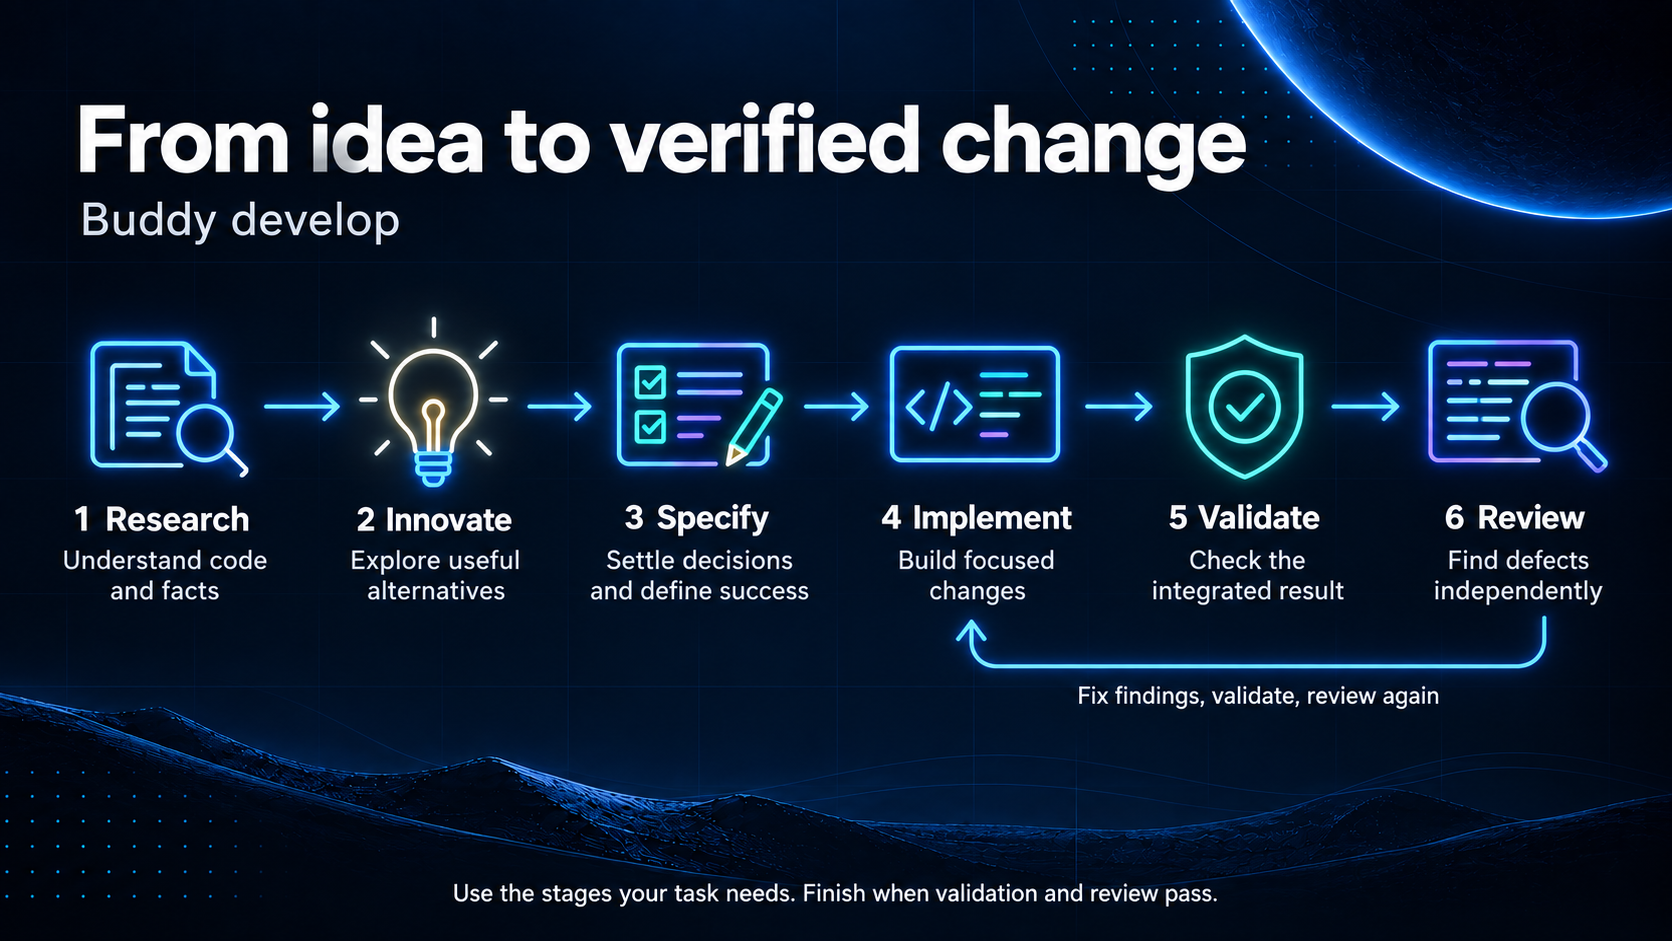
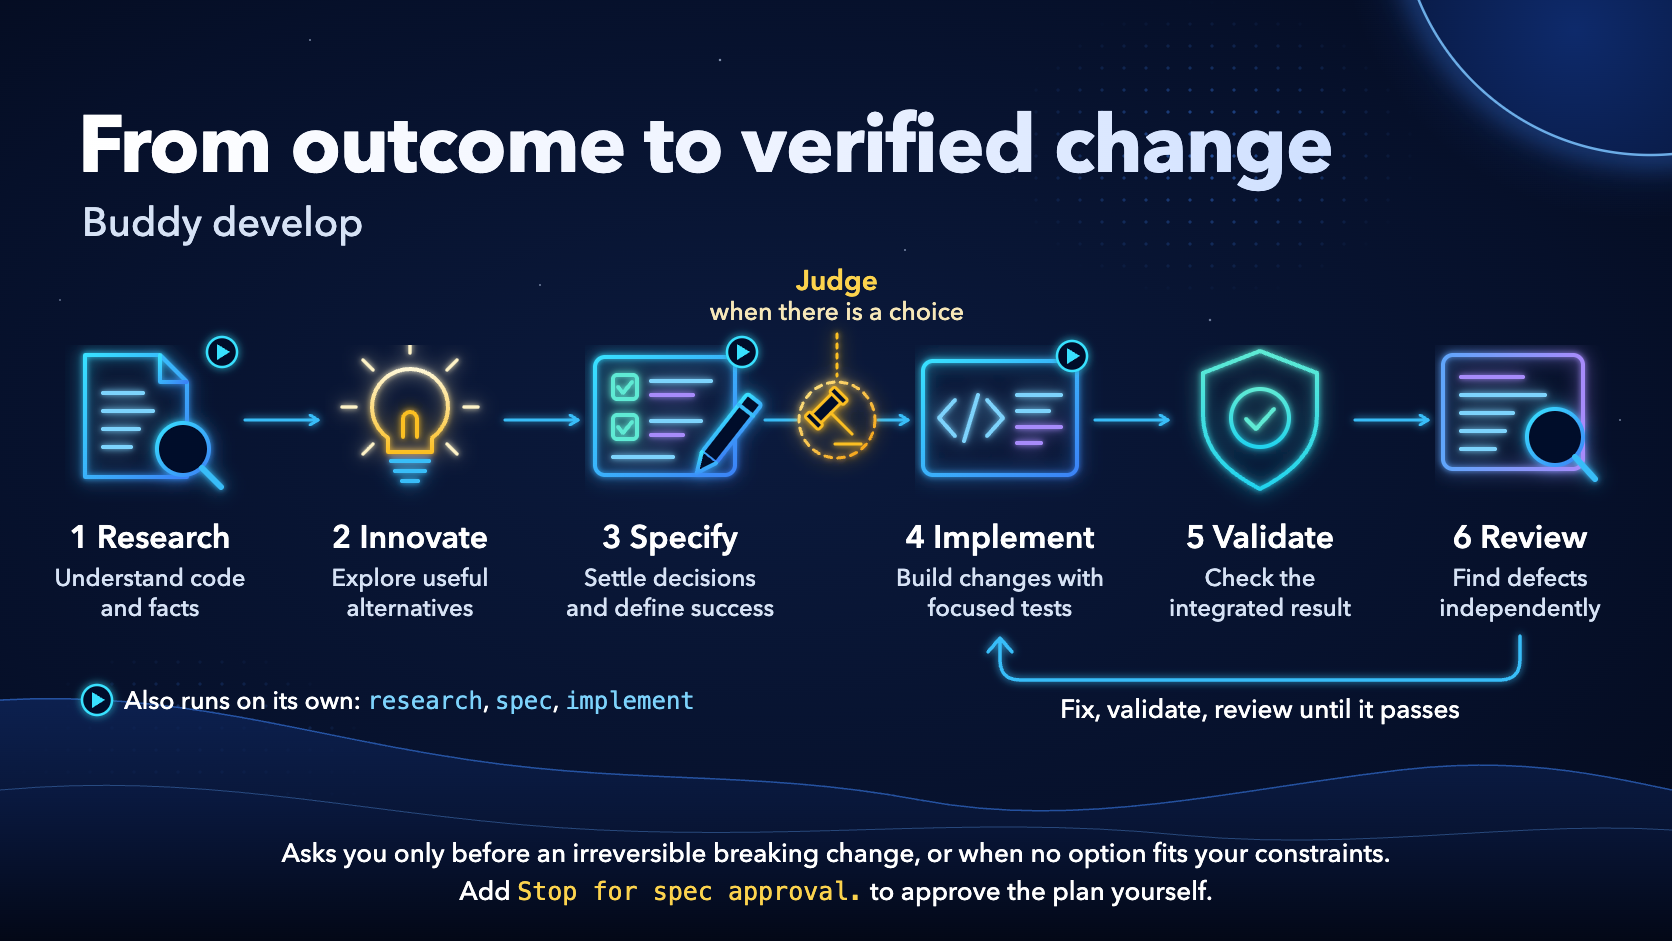
docs: update README hero image for the 3.0 develop flow
Add the judge gate, focused tests, the fix loop, standalone stages,
and who decides. Add an editable HTML source for the image.

diff --git a/assets/buddy-readme-hero.html b/assets/buddy-readme-hero.html
@@ -1,0 +1,295 @@
+<!doctype html>
+<!--
+  Source for buddy-readme-hero.png (1672x941).
+  Render from the repository root with headless Chrome, for example:
+  "Google Chrome" --headless=new --hide-scrollbars --window-size=1672,941 \
+    --screenshot=assets/buddy-readme-hero.png assets/buddy-readme-hero.html
+-->
+<html lang="en">
+<head>
+<meta charset="utf-8">
+<title>Buddy README hero</title>
+<style>
+  html, body { margin: 0; padding: 0; width: 1672px; height: 941px; overflow: hidden; background: #040a1c; }
+  svg { display: block; }
+  .title { font-family: "Avenir Next", "Avenir", "Helvetica Neue", Arial, sans-serif; font-weight: 700; }
+  .sans { font-family: "Avenir Next", "Avenir", "Helvetica Neue", Arial, sans-serif; font-weight: 500; }
+  .bold { font-family: "Avenir Next", "Avenir", "Helvetica Neue", Arial, sans-serif; font-weight: 600; }
+  .mono { font-family: "SF Mono", Menlo, Consolas, monospace; font-weight: 500; }
+</style>
+</head>
+<body>
+<svg width="1672" height="941" viewBox="0 0 1672 941" xmlns="http://www.w3.org/2000/svg">
+  <defs>
+    <radialGradient id="bg" cx="0.45" cy="0.45" r="0.85">
+      <stop offset="0" stop-color="#0b1a3d"/>
+      <stop offset="0.6" stop-color="#06102a"/>
+      <stop offset="1" stop-color="#030817"/>
+    </radialGradient>
+    <radialGradient id="planet" cx="0.35" cy="0.75" r="0.9">
+      <stop offset="0" stop-color="#0e2a6b"/>
+      <stop offset="0.55" stop-color="#071538"/>
+      <stop offset="1" stop-color="#040b22"/>
+    </radialGradient>
+    <radialGradient id="haze" cx="0.5" cy="0.5" r="0.5">
+      <stop offset="0" stop-color="#2563eb" stop-opacity="0.35"/>
+      <stop offset="1" stop-color="#2563eb" stop-opacity="0"/>
+    </radialGradient>
+    <linearGradient id="dune1" x1="0" y1="0" x2="0" y2="1">
+      <stop offset="0" stop-color="#0d2253"/>
+      <stop offset="1" stop-color="#040a1c"/>
+    </linearGradient>
+    <linearGradient id="dune2" x1="0" y1="0" x2="0" y2="1">
+      <stop offset="0" stop-color="#0a1a42"/>
+      <stop offset="1" stop-color="#030817"/>
+    </linearGradient>
+    <linearGradient id="gBlue" x1="0" y1="0" x2="1" y2="1">
+      <stop offset="0" stop-color="#38e1ff"/>
+      <stop offset="1" stop-color="#3b82f6"/>
+    </linearGradient>
+    <linearGradient id="gPurple" x1="0" y1="0" x2="1" y2="0">
+      <stop offset="0" stop-color="#60a5fa"/>
+      <stop offset="1" stop-color="#a78bfa"/>
+    </linearGradient>
+    <linearGradient id="gTeal" x1="0" y1="0" x2="0" y2="1">
+      <stop offset="0" stop-color="#5eead4"/>
+      <stop offset="1" stop-color="#22d3ee"/>
+    </linearGradient>
+    <linearGradient id="gWarm" x1="0" y1="0" x2="0" y2="1">
+      <stop offset="0" stop-color="#fff7d6"/>
+      <stop offset="1" stop-color="#fbbf24"/>
+    </linearGradient>
+    <linearGradient id="gAmber" x1="0" y1="0" x2="1" y2="1">
+      <stop offset="0" stop-color="#fde68a"/>
+      <stop offset="1" stop-color="#f59e0b"/>
+    </linearGradient>
+    <linearGradient id="titleFill" x1="0" y1="0" x2="1" y2="0">
+      <stop offset="0" stop-color="#ffffff"/>
+      <stop offset="0.55" stop-color="#eef3ff"/>
+      <stop offset="1" stop-color="#cfe0ff"/>
+    </linearGradient>
+    <!-- userSpaceOnUse keeps the glow on groups that contain only straight lines. -->
+    <filter id="glow" filterUnits="userSpaceOnUse" x="0" y="0" width="1672" height="941">
+      <feGaussianBlur in="SourceGraphic" stdDeviation="9" result="wide"/>
+      <feGaussianBlur in="SourceGraphic" stdDeviation="3" result="near"/>
+      <feMerge>
+        <feMergeNode in="wide"/>
+        <feMergeNode in="near"/>
+        <feMergeNode in="SourceGraphic"/>
+      </feMerge>
+    </filter>
+    <filter id="softGlow" filterUnits="userSpaceOnUse" x="0" y="0" width="1672" height="941">
+      <feGaussianBlur in="SourceGraphic" stdDeviation="4" result="near"/>
+      <feMerge>
+        <feMergeNode in="near"/>
+        <feMergeNode in="SourceGraphic"/>
+      </feMerge>
+    </filter>
+    <filter id="planetRim" filterUnits="userSpaceOnUse" x="0" y="0" width="1672" height="941">
+      <feGaussianBlur stdDeviation="14"/>
+    </filter>
+    <pattern id="dots" width="22" height="22" patternUnits="userSpaceOnUse">
+      <circle cx="2" cy="2" r="1.6" fill="#3b82f6"/>
+    </pattern>
+    <radialGradient id="dotFadeA" cx="0.5" cy="0.5" r="0.5">
+      <stop offset="0" stop-color="#fff" stop-opacity="0.55"/>
+      <stop offset="1" stop-color="#fff" stop-opacity="0"/>
+    </radialGradient>
+    <mask id="dotMaskA"><rect x="1000" y="0" width="420" height="300" fill="url(#dotFadeA)"/></mask>
+    <mask id="dotMaskB"><rect x="0" y="640" width="380" height="301" fill="url(#dotFadeA)"/></mask>
+    <marker id="head" viewBox="0 0 12 12" refX="10" refY="6" markerWidth="12" markerHeight="12" markerUnits="userSpaceOnUse" orient="auto">
+      <path d="M2,1 L10,6 L2,11" fill="none" stroke="#38bdf8" stroke-width="3" stroke-linecap="round" stroke-linejoin="round"/>
+    </marker>
+  </defs>
+
+  <!-- Space background -->
+  <rect width="1672" height="941" fill="url(#bg)"/>
+  <rect x="1000" y="0" width="420" height="300" fill="url(#dots)" mask="url(#dotMaskA)"/>
+  <rect x="0" y="640" width="380" height="301" fill="url(#dots)" mask="url(#dotMaskB)"/>
+  <g fill="#cfe0ff">
+    <circle cx="720" cy="60" r="1.2" opacity="0.6"/>
+    <circle cx="905" cy="250" r="1" opacity="0.5"/>
+    <circle cx="540" cy="285" r="1.1" opacity="0.4"/>
+    <circle cx="1210" cy="320" r="1.2" opacity="0.5"/>
+    <circle cx="310" cy="40" r="1" opacity="0.5"/>
+    <circle cx="1620" cy="420" r="1.1" opacity="0.4"/>
+    <circle cx="60" cy="300" r="1" opacity="0.4"/>
+  </g>
+
+  <!-- Planet -->
+  <circle cx="1640" cy="-80" r="300" fill="url(#haze)"/>
+  <circle cx="1650" cy="-95" r="250" fill="none" stroke="#3b82f6" stroke-width="10" filter="url(#planetRim)" opacity="0.9"/>
+  <circle cx="1650" cy="-95" r="250" fill="url(#planet)"/>
+  <circle cx="1650" cy="-95" r="250" fill="none" stroke="#7cc4ff" stroke-width="2.5" opacity="0.85"/>
+
+  <!-- Dunes -->
+  <path d="M0,700 C180,690 300,735 470,760 C640,785 760,770 920,800 C1080,830 1230,790 1400,770 C1520,756 1600,775 1672,790 L1672,941 L0,941 Z" fill="url(#dune1)" opacity="0.9"/>
+  <path d="M0,700 C180,690 300,735 470,760 C640,785 760,770 920,800 C1080,830 1230,790 1400,770 C1520,756 1600,775 1672,790" fill="none" stroke="#3b82f6" stroke-width="1.5" opacity="0.55"/>
+  <path d="M0,790 C220,770 380,820 600,830 C820,840 980,815 1180,835 C1360,852 1520,820 1672,830 L1672,941 L0,941 Z" fill="url(#dune2)"/>
+  <path d="M0,790 C220,770 380,820 600,830 C820,840 980,815 1180,835 C1360,852 1520,820 1672,830" fill="none" stroke="#60a5fa" stroke-width="1" opacity="0.35"/>
+
+  <!-- Title -->
+  <text x="78" y="172" class="title" font-size="80" fill="url(#titleFill)" letter-spacing="-1">From outcome to verified change</text>
+  <text x="82" y="236" class="sans" font-size="40" fill="#d6e2f5">Buddy develop</text>
+
+  <!-- Stage arrows -->
+  <g filter="url(#softGlow)" stroke="#38bdf8" stroke-width="3" stroke-linecap="round" fill="none">
+    <line x1="245" y1="420" x2="318" y2="420" marker-end="url(#head)"/>
+    <line x1="505" y1="420" x2="578" y2="420" marker-end="url(#head)"/>
+    <line x1="1095" y1="420" x2="1168" y2="420" marker-end="url(#head)"/>
+    <line x1="1355" y1="420" x2="1428" y2="420" marker-end="url(#head)"/>
+    <!-- Specify to judge gate to Implement -->
+    <line x1="765" y1="420" x2="796" y2="420"/>
+    <line x1="878" y1="420" x2="908" y2="420" marker-end="url(#head)"/>
+  </g>
+
+  <!-- Judge gate: conditional, not a numbered stage -->
+  <g filter="url(#glow)" fill="none" stroke="url(#gAmber)" stroke-width="3" stroke-linecap="round" stroke-linejoin="round">
+    <circle cx="837" cy="420" r="38" stroke-dasharray="7 6"/>
+    <line x1="837" y1="334" x2="837" y2="376" stroke="#fbbf24" stroke-dasharray="4 6"/>
+    <g transform="translate(837 420)">
+      <g transform="translate(-4 -5) rotate(-45)" stroke="#fbbf24">
+        <rect x="-15" y="-16" width="30" height="13" rx="2" fill="#06102a"/>
+        <rect x="-21" y="-19" width="7" height="19" rx="2" fill="#06102a"/>
+        <rect x="14" y="-19" width="7" height="19" rx="2" fill="#06102a"/>
+        <line x1="0" y1="-3" x2="0" y2="27"/>
+      </g>
+      <line x1="-2" y1="24" x2="24" y2="24" stroke="#fbbf24"/>
+    </g>
+  </g>
+  <text x="837" y="290" text-anchor="middle" class="bold" font-size="28" fill="#fcd34d">Judge</text>
+  <text x="837" y="320" text-anchor="middle" class="sans" font-size="25" fill="#f6e7b8">when there is a choice</text>
+
+  <!-- 1 Research -->
+  <g transform="translate(65 345)" filter="url(#glow)" fill="none" stroke-width="4" stroke-linecap="round" stroke-linejoin="round">
+    <path d="M20,10 H95 L122,37 V132 H20 Z" stroke="url(#gBlue)"/>
+    <path d="M95,10 V37 H122" stroke="url(#gBlue)"/>
+    <g stroke="#7dd3fc"><line x1="38" y1="48" x2="78" y2="48"/><line x1="38" y1="66" x2="88" y2="66"/><line x1="38" y1="84" x2="74" y2="84"/><line x1="38" y1="102" x2="66" y2="102"/></g>
+    <circle cx="118" cy="104" r="26" fill="#06102a" stroke="url(#gBlue)"/>
+    <line x1="137" y1="123" x2="156" y2="142" stroke="#38bdf8" stroke-width="6"/>
+  </g>
+
+  <!-- 2 Innovate -->
+  <g transform="translate(325 345)" filter="url(#glow)" fill="none" stroke-width="4" stroke-linecap="round" stroke-linejoin="round">
+    <path d="M85,24 a38,38 0 0 1 22,69 v14 h-44 v-14 a38,38 0 0 1 22,-69 z" stroke="url(#gWarm)"/>
+    <path d="M78,92 V74 a7,7 0 1 1 14,0 V92" stroke="#fbbf24"/>
+    <g stroke="#38bdf8"><line x1="66" y1="116" x2="104" y2="116"/><line x1="70" y1="126" x2="100" y2="126"/><line x1="77" y1="136" x2="93" y2="136"/></g>
+    <g stroke="#fef3c7" stroke-width="3.5">
+      <line x1="85" y1="8" x2="85" y2="-6"/>
+      <line x1="122" y1="25" x2="132" y2="15"/>
+      <line x1="48" y1="25" x2="38" y2="15"/>
+      <line x1="139" y1="62" x2="153" y2="62"/>
+      <line x1="31" y1="62" x2="17" y2="62"/>
+      <line x1="122" y1="99" x2="132" y2="109"/>
+      <line x1="48" y1="99" x2="38" y2="109"/>
+    </g>
+  </g>
+
+  <!-- 3 Specify -->
+  <g transform="translate(585 345)" filter="url(#glow)" fill="none" stroke-width="4" stroke-linecap="round" stroke-linejoin="round">
+    <rect x="10" y="12" width="140" height="118" rx="10" stroke="url(#gBlue)"/>
+    <rect x="28" y="30" width="24" height="24" rx="4" stroke="#5eead4"/>
+    <path d="M33,42 l5,6 l9,-11" stroke="#5eead4"/>
+    <rect x="28" y="70" width="24" height="24" rx="4" stroke="#5eead4"/>
+    <path d="M33,82 l5,6 l9,-11" stroke="#5eead4"/>
+    <line x1="66" y1="36" x2="126" y2="36" stroke="#7dd3fc"/>
+    <line x1="66" y1="50" x2="108" y2="50" stroke="#a78bfa"/>
+    <line x1="66" y1="76" x2="116" y2="76" stroke="#7dd3fc"/>
+    <line x1="66" y1="90" x2="98" y2="90" stroke="#a78bfa"/>
+    <line x1="28" y1="112" x2="88" y2="112" stroke="#7dd3fc"/>
+    <g transform="rotate(38 140 92)">
+      <rect x="131" y="44" width="18" height="74" rx="3" fill="#06102a" stroke="url(#gBlue)"/>
+      <path d="M131,118 L140,138 L149,118" fill="#06102a" stroke="url(#gBlue)"/>
+      <line x1="131" y1="58" x2="149" y2="58" stroke="#38bdf8"/>
+    </g>
+  </g>
+
+  <!-- 4 Implement -->
+  <g transform="translate(915 345)" filter="url(#glow)" fill="none" stroke-width="4" stroke-linecap="round" stroke-linejoin="round">
+    <rect x="8" y="16" width="154" height="114" rx="10" stroke="url(#gBlue)"/>
+    <path d="M40,55 L24,73 L40,91" stroke="#7dd3fc"/>
+    <line x1="49" y1="96" x2="63" y2="50" stroke="#7dd3fc"/>
+    <path d="M72,55 L88,73 L72,91" stroke="#7dd3fc"/>
+    <line x1="102" y1="50" x2="146" y2="50" stroke="#7dd3fc"/>
+    <line x1="102" y1="66" x2="134" y2="66" stroke="#7dd3fc"/>
+    <line x1="102" y1="82" x2="146" y2="82" stroke="#a78bfa"/>
+    <line x1="102" y1="98" x2="126" y2="98" stroke="#a78bfa"/>
+  </g>
+
+  <!-- 5 Validate -->
+  <g transform="translate(1175 345)" filter="url(#glow)" fill="none" stroke-width="4" stroke-linecap="round" stroke-linejoin="round">
+    <path d="M85,6 L142,28 V70 C142,106 116,128 85,144 C54,128 28,106 28,70 V28 Z" stroke="url(#gTeal)"/>
+    <circle cx="85" cy="73" r="29" stroke="url(#gTeal)"/>
+    <path d="M71,74 l10,10 l18,-20" stroke="#5eead4"/>
+  </g>
+
+  <!-- 6 Review -->
+  <g transform="translate(1435 345)" filter="url(#glow)" fill="none" stroke-width="4" stroke-linecap="round" stroke-linejoin="round">
+    <rect x="8" y="10" width="140" height="114" rx="10" stroke="url(#gPurple)"/>
+    <line x1="26" y1="32" x2="88" y2="32" stroke="#a78bfa"/>
+    <line x1="26" y1="50" x2="110" y2="50" stroke="#7dd3fc"/>
+    <line x1="26" y1="68" x2="78" y2="68" stroke="#7dd3fc"/>
+    <line x1="26" y1="86" x2="70" y2="86" stroke="#7dd3fc"/>
+    <line x1="26" y1="104" x2="60" y2="104" stroke="#7dd3fc"/>
+    <circle cx="120" cy="92" r="28" fill="#06102a" stroke="url(#gBlue)"/>
+    <line x1="140" y1="112" x2="160" y2="134" stroke="#38bdf8" stroke-width="6"/>
+  </g>
+
+  <!-- Standalone marks on stages that also run on their own -->
+  <g id="solo-marks" filter="url(#softGlow)">
+    <g transform="translate(222 352)"><circle r="15" fill="#06102a" stroke="#38e1ff" stroke-width="2.5"/><path d="M-5,-8 L8,0 L-5,8 Z" fill="#38e1ff"/></g>
+    <g transform="translate(742 352)"><circle r="15" fill="#06102a" stroke="#38e1ff" stroke-width="2.5"/><path d="M-5,-8 L8,0 L-5,8 Z" fill="#38e1ff"/></g>
+    <g transform="translate(1072 356)"><circle r="15" fill="#06102a" stroke="#38e1ff" stroke-width="2.5"/><path d="M-5,-8 L8,0 L-5,8 Z" fill="#38e1ff"/></g>
+  </g>
+
+  <!-- Stage names and captions -->
+  <g text-anchor="middle">
+    <text x="150" y="548" class="bold" font-size="32" fill="#ffffff">1 Research</text>
+    <text x="150" y="586" class="sans" font-size="24" fill="#d6e2f5">Understand code</text>
+    <text x="150" y="616" class="sans" font-size="24" fill="#d6e2f5">and facts</text>
+
+    <text x="410" y="548" class="bold" font-size="32" fill="#ffffff">2 Innovate</text>
+    <text x="410" y="586" class="sans" font-size="24" fill="#d6e2f5">Explore useful</text>
+    <text x="410" y="616" class="sans" font-size="24" fill="#d6e2f5">alternatives</text>
+
+    <text x="670" y="548" class="bold" font-size="32" fill="#ffffff">3 Specify</text>
+    <text x="670" y="586" class="sans" font-size="24" fill="#d6e2f5">Settle decisions</text>
+    <text x="670" y="616" class="sans" font-size="24" fill="#d6e2f5">and define success</text>
+
+    <text x="1000" y="548" class="bold" font-size="32" fill="#ffffff">4 Implement</text>
+    <text x="1000" y="586" class="sans" font-size="24" fill="#d6e2f5">Build changes with</text>
+    <text x="1000" y="616" class="sans" font-size="24" fill="#d6e2f5">focused tests</text>
+
+    <text x="1260" y="548" class="bold" font-size="32" fill="#ffffff">5 Validate</text>
+    <text x="1260" y="586" class="sans" font-size="24" fill="#d6e2f5">Check the</text>
+    <text x="1260" y="616" class="sans" font-size="24" fill="#d6e2f5">integrated result</text>
+
+    <text x="1520" y="548" class="bold" font-size="32" fill="#ffffff">6 Review</text>
+    <text x="1520" y="586" class="sans" font-size="24" fill="#d6e2f5">Find defects</text>
+    <text x="1520" y="616" class="sans" font-size="24" fill="#d6e2f5">independently</text>
+  </g>
+
+  <!-- Fix loop: Review back to Implement -->
+  <g filter="url(#softGlow)" fill="none" stroke="#38bdf8" stroke-width="3.5" stroke-linecap="round" stroke-linejoin="round">
+    <path d="M1520,636 V660 Q1520,680 1500,680 H1020 Q1000,680 1000,660 V640"/>
+    <path d="M988,652 L1000,638 L1012,652"/>
+  </g>
+  <text x="1260" y="718" text-anchor="middle" class="sans" font-size="26" fill="#ffffff">Fix, validate, review until it passes</text>
+
+  <!-- Standalone legend -->
+  <g filter="url(#softGlow)">
+    <g transform="translate(97 700)"><circle r="15" fill="#06102a" stroke="#38e1ff" stroke-width="2.5"/><path d="M-5,-8 L8,0 L-5,8 Z" fill="#38e1ff"/></g>
+  </g>
+  <text x="124" y="709" class="sans" font-size="25" fill="#ffffff">Also runs on its own:
+    <tspan class="mono" fill="#7dd3fc" font-size="24">research</tspan><tspan fill="#ffffff">,</tspan>
+    <tspan class="mono" fill="#7dd3fc" font-size="24">spec</tspan><tspan fill="#ffffff">,</tspan>
+    <tspan class="mono" fill="#7dd3fc" font-size="24">implement</tspan></text>
+
+  <!-- Footer: who decides -->
+  <g text-anchor="middle">
+    <text x="836" y="862" class="sans" font-size="26" fill="#ffffff">Asks you only before an irreversible breaking change, or when no option fits your constraints.</text>
+    <text x="836" y="900" class="sans" font-size="26" fill="#ffffff">Add <tspan class="mono" fill="#fcd34d" font-size="25">Stop for spec approval.</tspan> to approve the plan yourself.</text>
+  </g>
+</svg>
+</body>
+</html>

diff --git a/README.md b/README.md
@@ -20,9 +20,9 @@
 </p>
 
 <p align="center">
-  <img src="assets/buddy-readme-hero.png" width="900" alt="Buddy development workflow: research, innovate, specify, implement, validate, and review, with a loop to fix findings">
+  <img src="assets/buddy-readme-hero.png" width="900" alt="Buddy develop workflow: research, innovate, specify, an independent judge when the spec has a choice, implement with focused tests, validate, and review, with a loop to fix, validate, and review until it passes. Research, spec, and implement also run on their own. Buddy asks you only before an irreversible breaking change or when no option fits your constraints.">
   <br>
-  <sub>The <code>develop</code> workflow. Buddy adapts its stages to the size and risk of the change.</sub>
+  <sub>The <code>develop</code> workflow runs on its own and asks you only when it must. Add <code>Stop for spec approval.</code> to approve the plan yourself.</sub>
 </p>
 
 ---
